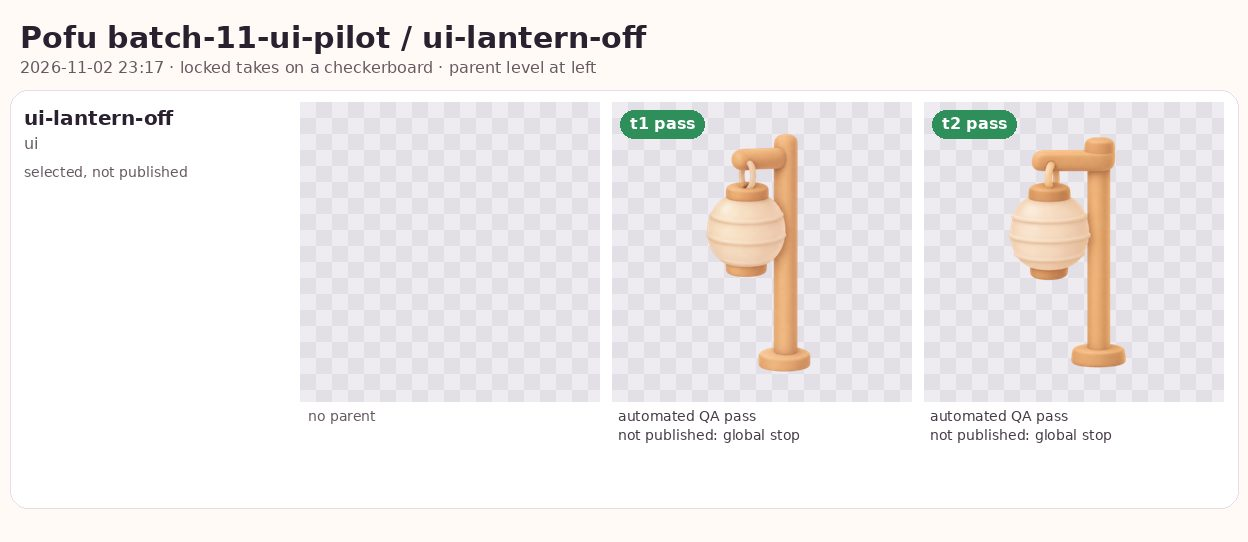
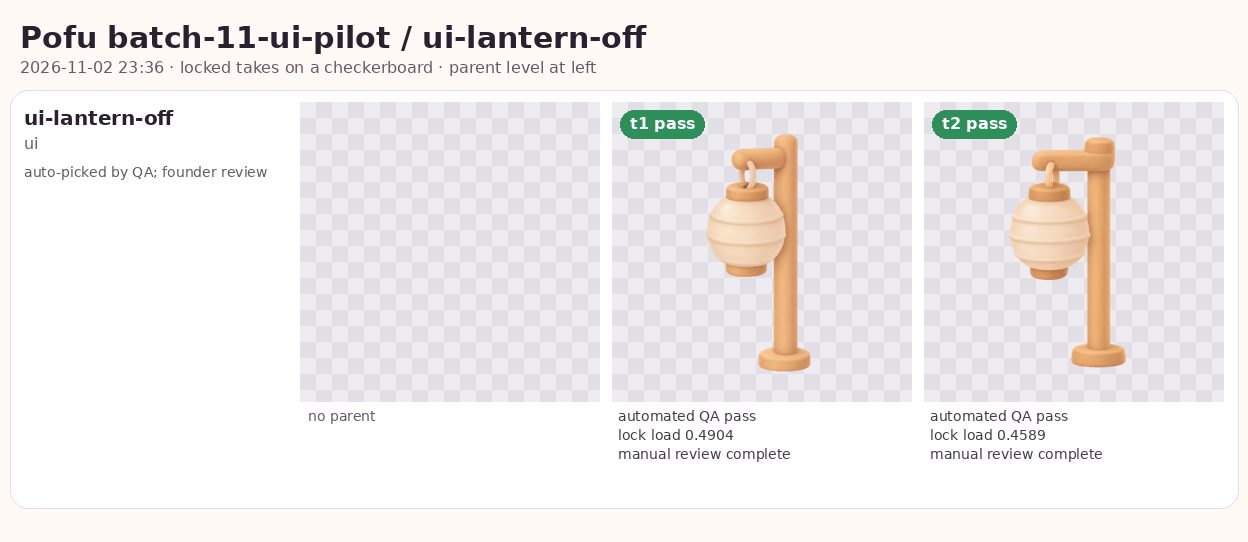
docs(art): record overnight queue policy and retained UI review
Generated-With: OpenAI Codex

Changed region(s): [[0.75, 0.797, 0.9062, 0.8561], [0.5, 0.797, 0.6562, 0.8561], [0.0, 0.2952, 0.2188, 0.3247]]

diff --git a/docs/product/founder-input.md b/docs/product/founder-input.md
@@ -26,6 +26,14 @@ not orders: each entry records **what he meant**, the **status**, and
   Feel is tuned natively on his iPhone.
 - **Merging:** the agent may merge PRs, with merge commits, only on green CI.
 
+## 2026-11-02 (overnight): autonomous art queue
+
+- Publish the retained 14 rig picks, pond-5-lit and four UI picks without regenerating; then finish the UI pilot and every READY batch in queue order.
+- Re-fetch main before every batch and follow its newest brief. Decor pilot stays paused until its QA fix lands on main. Never start BLOCKED, promote EXPLORATION or merge.
+- Tonight overrides earlier QA stop rules: one allowed extra pair, then skip only the failed job and its dependents and continue. Stop globally only for account/sign-in/quota/usage messages, refusals, identity/upload corruption or three consecutive actual job failures.
+- Measure harmony for each promoted master and commit the current manifest with its art. One PR per batch; continue immediately. Once the queue is empty, check main every 20 minutes for two hours.
+- Status: in progress in art PRs #83, #84 and #87; later READY batches follow.
+
 ## 2026-11-02 (evening): after the look-dev round and the Hub answers
 
 ### Art and look
